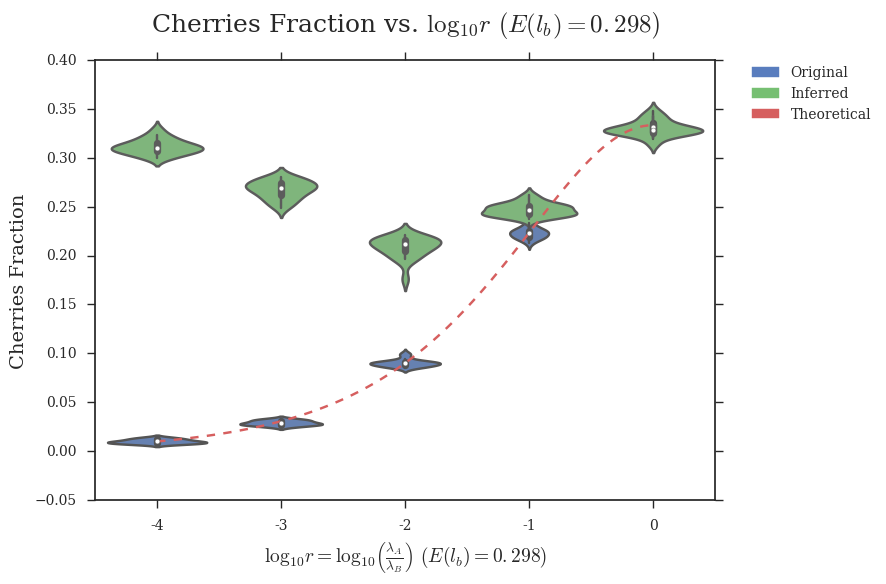
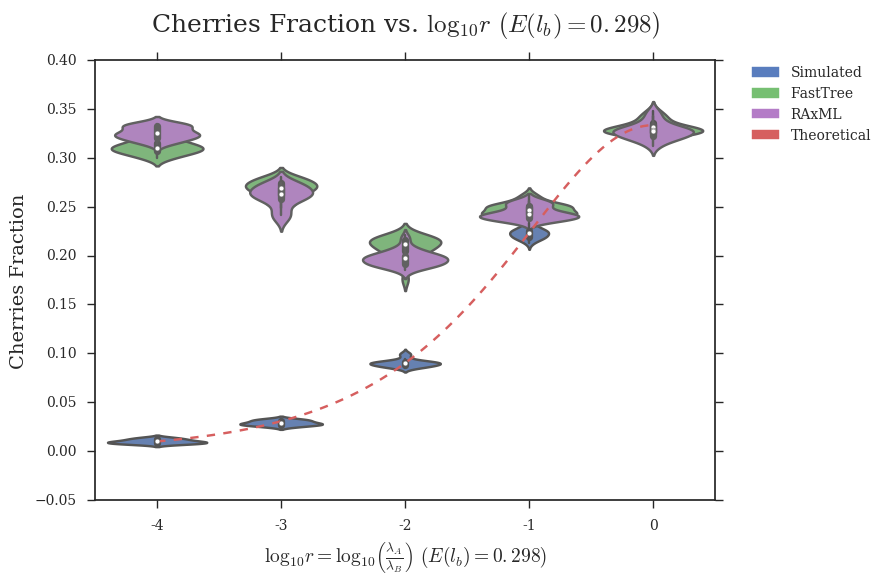
Added RAxML to figures

diff --git a/figures/scripts/1_cherries-vs-params.py b/figures/scripts/1_cherries-vs-params.py
@@ -29,12 +29,19 @@ r_original = {'r':np.array([-4]*20+[-3]*20+[-2]*20+[-1]*20+[0]*20), # values of 
                                   [230,238,226,233,225,219,216,219,225,221,217,224,223,219,222,219,213,225,225,229] + # r = 0.1
                                   [331,326,336,340,348,333,345,326,336,328,319,336,326,327,330,332,335,331,320,329]   # r = 1
              ).astype(float)/1000} # divide by number of leaves to get percentage
-r_inferred = {'r':np.array([-4]*20+[-3]*20+[-2]*20+[-1]*20+[0]*20), # values of r (log-scaled)
+r_fasttree = {'r':np.array([-4]*20+[-3]*20+[-2]*20+[-1]*20+[0]*20), # values of r (log-scaled)
               'cherries':np.array([300,308,315,304,323,307,319,312,329,312,306,316,300,321,310,308,314,309,304,311] + # r = 0.0001
                                   [261,263,271,257,262,278,270,269,268,256,278,280,270,249,266,274,252,280,273,274] + # r = 0.001
                                   [208,204,216,214,213,216,216,196,207,197,221,219,176,206,205,217,219,210,214,197] + # r = 0.01
                                   [243,262,246,252,258,241,242,237,247,251,251,240,250,244,240,250,242,243,250,255] + # r = 0.1
                                   [326,325,328,338,348,327,343,325,341,329,320,334,327,327,330,324,333,332,314,329]   # r = 1
+             ).astype(float)/1000} # divide by number of leaves to get percentage
+r_raxml    = {'r':np.array([-4]*20+[-3]*20+[-2]*20+[-1]*20+[0]*20), # values of r (log-scaled)
+              'cherries':np.array([323,334,327,320,323,323,325,325,332,314,330,334,317,320,335,334,320,332,316,326] + # r = 0.0001
+                                  [261,257,262,261,249,258,265,269,272,241,273,274,264,258,243,274,237,264,271,266] + # r = 0.001
+                                  [193,190,199,193,197,196,209,190,190,199,205,218,192,199,185,197,203,203,198,189] + # r = 0.01
+                                  [240,256,244,250,253,239,242,238,242,240,241,237,250,236,244,244,235,237,254,256] + # r = 0.1
+                                  [329,319,327,332,348,325,343,320,338,322,317,329,323,326,329,322,335,329,312,328]   # r = 1
              ).astype(float)/1000} # divide by number of leaves to get percentage
 
 # modifying r = lambdaA/lambdaB (with constant lambda = lambdaA + lambdaB)
@@ -45,12 +52,19 @@ r2_original = {'r':np.array([-4]*20+[-3]*20+[-2]*20+[-1]*20+[0]*20), # values of
                                   [220,232,233,225,232,221,221,223,224,230,234,218,230,218,227,227,227,231,223,219] + # r = 0.1
                                   [336,319,341,338,325,323,328,324,327,338,336,330,319,336,333,338,332,334,347,331]   # r = 1
              ).astype(float)/1000} # divide by number of leaves to get percentage
-r2_inferred = {'r':np.array([-4]*20+[-3]*20+[-2]*20+[-1]*20+[0]*20), # values of r (log-scaled)
+r2_fasttree = {'r':np.array([-4]*20+[-3]*20+[-2]*20+[-1]*20+[0]*20), # values of r (log-scaled)
               'cherries':np.array([292,295,285,275,309,289,306,297,298,285,296,298,290,286,291,296,296,282,277,278] + # r = 0.0001
                                   [238,248,238,257,245,232,264,239,252,252,243,223,241,232,225,243,235,244,231,228] + # r = 0.001
                                   [208,204,216,214,213,216,216,196,207,197,221,219,176,206,205,217,219,210,214,197] + # r = 0.01
                                   [253,261,268,268,242,247,230,249,243,256,251,245,260,256,265,254,252,257,261,244] + # r = 0.1
                                   [313,303,308,314,303,307,307,290,300,313,295,303,304,306,303,310,288,300,324,310]   # r = 1
+             ).astype(float)/1000} # divide by number of leaves to get percentage
+r2_raxml   = {'r':np.array([-4]*20+[-3]*20+[-2]*20+[-1]*20+[0]*20), # values of r (log-scaled)
+              'cherries':np.array([272,261,246,264,278,248,263,273,250,258,285,259,273,255,267,260,276,243,247,257] + # r = 0.0001
+                                  [223,220,224,239,225,226,225,222,219,238,220,214,236,218,221,223,213,218,215,210] + # r = 0.001
+                                  [193,190,199,193,197,196,209,190,190,199,205,218,192,199,185,197,203,203,198,189] + # r = 0.01
+                                  [243,253,260,262,249,246,253,244,250,265,252,245,255,254,253,254,247,259,252,250] + # r = 0.1
+                                  [329,314,322,323,320,314,319,314,312,329,317,317,313,315,318,321,310,326,332,312]   # r = 1
              ).astype(float)/1000} # divide by number of leaves to get percentage
 
 # modifying lambda = lambdaA + lambdaB
@@ -61,12 +75,19 @@ l_original = {'lambda':np.array([33.866]*20+[84.664]*20+[169.328]*20+[338.655]*2
                                   [91,89,90,82,94,79,81,89,92,91,90,93,95,92,96,94,91,90,86,94] +                     # lambda = 338.65503090511262
                                   [88,89,89,87,89,87,89,86,85,87,94,84,83,85,84,87,86,84,83,89]                       # lambda = 846.63757726278155
              ).astype(float)/1000} # divide by number of leaves to get percentage
-l_inferred = {'lambda':np.array([33.866]*20+[84.664]*20+[169.328]*20+[338.655]*20+[846.638]*20),
+l_fasttree = {'lambda':np.array([33.866]*20+[84.664]*20+[169.328]*20+[338.655]*20+[846.638]*20),
               'cherries':np.array([215,190,198,191,196,190,204,211,189,184,181,202,189,190,183,199,170,182,189,182] + # lambda = 33.86550309051126
                                   [195,211,200,203,204,205,184,189,182,197,194,198,191,200,190,192,193,200,187,195] + # lambda = 84.66375772627816
                                   [208,204,216,214,213,216,216,196,207,197,221,219,176,206,205,217,219,210,214,197] + # lambda = 169.32751545255631
                                   [234,223,227,222,232,231,218,225,227,229,223,209,226,237,240,237,227,220,227,221] + # lambda = 338.65503090511262
                                   [233,229,217,222,225,219,217,227,222,219,246,213,233,246,209,210,232,240,218,231]   # lambda = 846.63757726278155
+             ).astype(float)/1000} # divide by number of leaves to get percentage
+l_raxml    = {'lambda':np.array([33.866]*20+[84.664]*20+[169.328]*20+[338.655]*20+[846.638]*20),
+              'cherries':np.array([200,186,190,185,183,183,194,208,190,184,180,185,182,184,177,194,170,182,181,180] + # lambda = 33.86550309051126
+                                  [195,204,191,184,190,192,184,186,174,185,188,194,195,195,186,189,188,198,172,194] + # lambda = 84.66375772627816
+                                  [193,190,199,193,197,196,209,190,190,199,205,218,192,199,185,197,203,203,198,189] + # lambda = 169.32751545255631
+                                  [241,235,236,216,223,237,199,226,216,211,208,226,224,236,223,239,225,209,221,221] + # lambda = 338.65503090511262
+                                  [270,266,263,262,286,257,267,255,263,264,266,255,256,272,260,259,256,271,263,281]   # lambda = 846.63757726278155
              ).astype(float)/1000} # divide by number of leaves to get percentage
 
 # modifying sequence length
@@ -80,7 +101,7 @@ k_original = {'length':np.array([50]*20+[100]*20+[200]*20+[300]*20+[600]*20+[120
                                   [84,93,92,95,91,88,92,93,86,85,95,90,82,84,94,99,86,77,95,95] +                     # length = 2400
                                   [78,92,95,87,94,84,94,88,84,97,86,83,97,87,98,97,85,80,91,80]                       # length = 4800
              ).astype(float)/1000} # divide by number of leaves to get percentage
-k_inferred = {'length':np.array([50]*20+[100]*20+[200]*20+[300]*20+[600]*20+[1200]*20+[2400]*20+[4800]*20), # values of length
+k_fasttree = {'length':np.array([50]*20+[100]*20+[200]*20+[300]*20+[600]*20+[1200]*20+[2400]*20+[4800]*20), # values of length
               'cherries':np.array([229,240,216,231,204,229,212,212,217,223,219,213,211,207,227,209,222,214,236,238] + # length = 50
                                   [225,238,240,243,233,225,232,244,249,229,252,239,241,222,262,233,227,236,234,248] + # length = 100
                                   [209,221,226,221,221,243,236,238,222,230,228,215,221,233,221,235,242,229,238,223] + # length = 200
@@ -89,6 +110,16 @@ k_inferred = {'length':np.array([50]*20+[100]*20+[200]*20+[300]*20+[600]*20+[120
                                   [130,141,154,163,145,159,164,150,159,156,144,152,161,148,153,149,143,161,141,144] + # length = 1200
                                   [131,134,133,137,125,123,134,125,131,123,128,133,113,121,128,134,128,122,131,118] + # length = 2400
                                   [106,121,113,109,111,113,120,116,115,121,116,104,124,103,131,115,105,104,119,111]   # length = 4800
+             ).astype(float)/1000} # divide by number of leaves to get percentage
+k_raxml    = {'length':np.array([50]*20+[100]*20+[200]*20+[300]*20+[600]*20+[1200]*20+[2400]*20+[4800]*20), # values of length
+              'cherries':np.array([279,286,267,280,260,268,262,269,268,278,269,266,272,274,273,276,265,263,271,279] + # length = 50
+                                  [255,245,257,237,240,240,254,240,252,251,259,253,243,250,256,235,250,253,253,255] + # length = 100
+                                  [198,215,213,213,214,221,214,221,208,208,222,206,216,225,204,222,224,220,233,219] + # length = 200
+                                  [193,190,199,193,197,196,209,190,190,199,205,218,192,199,185,197,203,203,198,189] + # length = 300
+                                  [168,154,169,170,181,176,170,170,175,172,170,171,162,182,171,177,165,172,174,170] + # length = 600
+                                  [140,136,143,154,147,153,166,162,153,151,141,152,154,153,152,146,150,157,140,142] + # length = 1200
+                                  [136,135,129,138,133,128,135,128,131,128,137,137,128,125,128,138,133,118,135,128] + # length = 2400
+                                  [112,124,114,117,118,116,126,118,125,128,121,106,130,113,128,119,113,110,129,116]   # length = 4800
              ).astype(float)/1000} # divide by number of leaves to get percentage
 
 # modifying deviation from ultrametricity
@@ -100,7 +131,7 @@ g_original = {'gammarate':np.array([2.952]*20+[5.904]*20+[29.518]*20+[147.591]*2
                                   [95,86,89,90,84,87,82,92,84,88,89,91,90,95,92,75,91,99,90,95] +                     # gamma = 295.181735298926
                                   [90,86,79,91,83,84,87,89,92,91,97,91,88,96,93,97,89,106,83,86]                      # gamma = infinity
              ).astype(float)/1000} # divide by number of leaves to get percentage
-g_inferred = {'gammarate':np.array([2.952]*20+[5.904]*20+[29.518]*20+[147.591]*20+[295.182]*20+[float('inf')]*20),
+g_fasttree = {'gammarate':np.array([2.952]*20+[5.904]*20+[29.518]*20+[147.591]*20+[295.182]*20+[float('inf')]*20),
               'cherries':np.array([214,210,207,208,203,204,202,214,200,206,210,229,219,220,223,229,214,216,197,220] + # gamma = 2.95181735298926
                                   [210,208,204,201,206,213,219,211,209,218,192,210,192,205,213,214,212,225,212,215] + # gamma = 5.90363470597852
                                   [208,204,216,214,213,216,216,196,207,197,221,219,176,206,205,217,219,210,214,197] + # gamma = 29.518173529892621
@@ -108,13 +139,22 @@ g_inferred = {'gammarate':np.array([2.952]*20+[5.904]*20+[29.518]*20+[147.591]*2
                                   [209,204,220,205,197,211,184,209,197,205,223,217,214,214,215,208,205,202,211,205] + # gamma = 295.181735298926
                                   [207,210,207,210,201,203,204,210,224,204,220,206,209,217,227,214,217,204,203,196]   # gamma = infinity
              ).astype(float)/1000} # divide by number of leaves to get percentage
+g_raxml    = {'gammarate':np.array([2.952]*20+[5.904]*20+[29.518]*20+[147.591]*20+[295.182]*20+[float('inf')]*20),
+              'cherries':np.array([212,196,204,200,202,196,199,205,194,205,202,215,206,203,213,207,218,206,194,193] + # gamma = 2.95181735298926
+                                  [199,195,189,202,211,214,202,206,195,212,191,198,188,190,202,205,209,208,198,202] + # gamma = 5.90363470597852
+                                  [193,190,199,193,197,196,209,190,190,199,205,218,192,199,185,197,203,203,198,189] + # gamma = 29.518173529892621
+                                  [196,188,205,196,187,188,203,198,190,211,217,207,211,189,195,192,203,195,185,189] + # gamma = 147.590867649463
+                                  [189,187,210,203,184,188,184,203,179,193,211,196,195,202,203,197,200,191,192,203] + # gamma = 295.181735298926
+                                  [208,201,197,209,194,202,194,193,209,193,208,189,191,203,209,192,196,185,194,186]   # gamma = infinity
+             ).astype(float)/1000} # divide by number of leaves to get percentage
 
 # plot cherries fraction vs. r (with different lambda = lambdaA+lambdaB to keep expected branch length constant)
-handles = [Patch(color='#597DBE',label='Original'),Patch(color='#76BF72',label='Inferred'),Patch(color='#D65F5F',label='Theoretical')]
+handles = [Patch(color='#597DBE',label='Simulated'),Patch(color='#76BF72',label='FastTree'),Patch(color='#B47CC7',label='RAxML'),Patch(color='#D65F5F',label='Theoretical')]
 fig = plt.figure()
 x = np.array([-4,-3,-2,-1,0])
 ax = sns.violinplot(x='r',y='cherries',data=pd.DataFrame(r_original),order=x,color='#597DBE')
-sns.violinplot(x='r',y='cherries',data=pd.DataFrame(r_inferred),order=x,color='#76BF72')
+sns.violinplot(x='r',y='cherries',data=pd.DataFrame(r_fasttree),order=x,color='#76BF72')
+sns.violinplot(x='r',y='cherries',data=pd.DataFrame(r_raxml),order=x,color='#B47CC7')
 x = np.linspace(-4,0,100)
 plt.plot(x+4,cherries_vs_r(10**x),label='Theoretical',linestyle='--',color='#D65F5F')
 legend = plt.legend(handles=handles,bbox_to_anchor=(1.05, 1), loc=2, borderaxespad=0.)
@@ -126,11 +166,12 @@ fig.savefig('cherries-fraction_vs_r_const-exp-branch-length.png', bbox_extra_art
 plt.close()
 
 # plot cherries fraction vs. r (with constant lambda = lambdaA + lambdaB)
-handles = [Patch(color='#597DBE',label='Original'),Patch(color='#76BF72',label='Inferred'),Patch(color='#D65F5F',label='Theoretical')]
+handles = [Patch(color='#597DBE',label='Simulated'),Patch(color='#76BF72',label='FastTree'),Patch(color='#B47CC7',label='RAxML'),Patch(color='#D65F5F',label='Theoretical')]
 fig = plt.figure()
 x = np.array([-4,-3,-2,-1,0])
 ax = sns.violinplot(x='r',y='cherries',data=pd.DataFrame(r2_original),order=x,color='#597DBE')
-sns.violinplot(x='r',y='cherries',data=pd.DataFrame(r2_inferred),order=x,color='#76BF72')
+sns.violinplot(x='r',y='cherries',data=pd.DataFrame(r2_fasttree),order=x,color='#76BF72')
+sns.violinplot(x='r',y='cherries',data=pd.DataFrame(r2_raxml),order=x,color='#B47CC7')
 x = np.linspace(-4,0,100)
 plt.plot(x+4,cherries_vs_r(10**x),label='Theoretical',linestyle='--',color='#D65F5F')
 legend = plt.legend(handles=handles,bbox_to_anchor=(1.05, 1), loc=2, borderaxespad=0.)
@@ -142,11 +183,12 @@ fig.savefig('cherries-fraction_vs_r_const-lambda.png', bbox_extra_artists=(legen
 plt.close()
 
 # plot cherries fraction vs. lambda
-handles = [Patch(color='#597DBE',label='Original'),Patch(color='#76BF72',label='Inferred'),Patch(color='#D65F5F',label='Theoretical')]
+handles = [Patch(color='#597DBE',label='Simulated'),Patch(color='#76BF72',label='FastTree'),Patch(color='#B47CC7',label='RAxML'),Patch(color='#D65F5F',label='Theoretical')]
 fig = plt.figure()
 x = np.array([33.866,84.664,169.328,338.655,846.638])
 ax = sns.violinplot(x='lambda',y='cherries',data=pd.DataFrame(l_original),order=x,color='#597DBE')
-sns.violinplot(x='lambda',y='cherries',data=pd.DataFrame(l_inferred),order=x,color='#76BF72')
+sns.violinplot(x='lambda',y='cherries',data=pd.DataFrame(l_fasttree),order=x,color='#76BF72')
+sns.violinplot(x='lambda',y='cherries',data=pd.DataFrame(l_raxml),order=x,color='#B47CC7')
 x = np.linspace(-100,1000,1100)
 plt.plot(x,np.array([cherries_vs_r(0.01)]*len(x)),label='Theoretical',linestyle='--',color='#D65F5F')
 legend = plt.legend(handles=handles,bbox_to_anchor=(1.05, 1), loc=2, borderaxespad=0.)
@@ -158,11 +200,12 @@ fig.savefig('cherries-fraction_vs_lambda.png', bbox_extra_artists=(legend,), bbo
 plt.close()
 
 # plot cherries fraction vs. length
-handles = [Patch(color='#597DBE',label='Original'),Patch(color='#76BF72',label='Inferred'),Patch(color='#D65F5F',label='Theoretical')]
+handles = [Patch(color='#597DBE',label='Simulated'),Patch(color='#76BF72',label='FastTree'),Patch(color='#B47CC7',label='RAxML'),Patch(color='#D65F5F',label='Theoretical')]
 fig = plt.figure()
 x = np.array([50,100,200,300,600,1200,2400,4800])
 ax = sns.violinplot(x='length',y='cherries',data=pd.DataFrame(k_original),order=x,color='#597DBE')
-sns.violinplot(x='length',y='cherries',data=pd.DataFrame(k_inferred),order=x,color='#76BF72')
+sns.violinplot(x='length',y='cherries',data=pd.DataFrame(k_fasttree),order=x,color='#76BF72')
+sns.violinplot(x='length',y='cherries',data=pd.DataFrame(k_raxml),order=x,color='#B47CC7')
 x = np.linspace(-100,5000,5100)
 plt.plot(x,np.array([cherries_vs_r(0.01)]*len(x)),label='Theoretical',linestyle='--',color='#D65F5F')
 legend = plt.legend(handles=handles,bbox_to_anchor=(1.05, 1), loc=2, borderaxespad=0.)
@@ -174,11 +217,12 @@ fig.savefig('cherries-fraction_vs_length.png', bbox_extra_artists=(legend,), bbo
 plt.close()
 
 # plot cherries fraction vs. gamma rate
-handles = [Patch(color='#597DBE',label='Original'),Patch(color='#76BF72',label='Inferred'),Patch(color='#D65F5F',label='Theoretical')]
+handles = [Patch(color='#597DBE',label='Simulated'),Patch(color='#76BF72',label='FastTree'),Patch(color='#B47CC7',label='RAxML'),Patch(color='#D65F5F',label='Theoretical')]
 fig = plt.figure()
 x = np.array([2.952,5.904,29.518,147.591,295.182,float('inf')])
 ax = sns.violinplot(x='gammarate',y='cherries',data=pd.DataFrame(g_original),order=x,color='#597DBE')
-sns.violinplot(x='gammarate',y='cherries',data=pd.DataFrame(g_inferred),order=x,color='#76BF72')
+sns.violinplot(x='gammarate',y='cherries',data=pd.DataFrame(g_fasttree),order=x,color='#76BF72')
+sns.violinplot(x='gammarate',y='cherries',data=pd.DataFrame(g_raxml),order=x,color='#B47CC7')
 x = np.linspace(-100,1000,5000)
 plt.plot(x,np.array([cherries_vs_r(0.01)]*len(x)),label='Theoretical',linestyle='--',color='#D65F5F')
 legend = plt.legend(handles=handles,bbox_to_anchor=(1.05, 1), loc=2, borderaxespad=0.)
